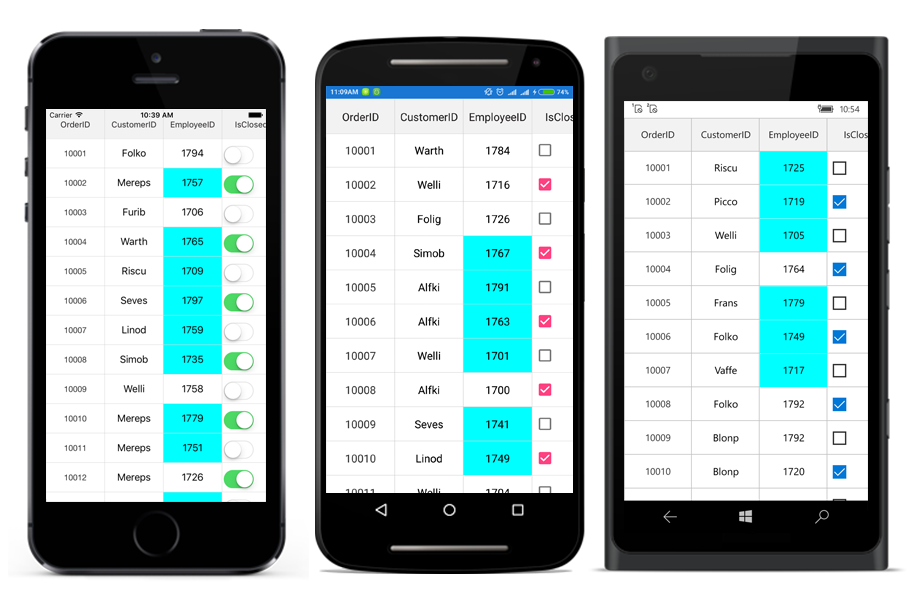
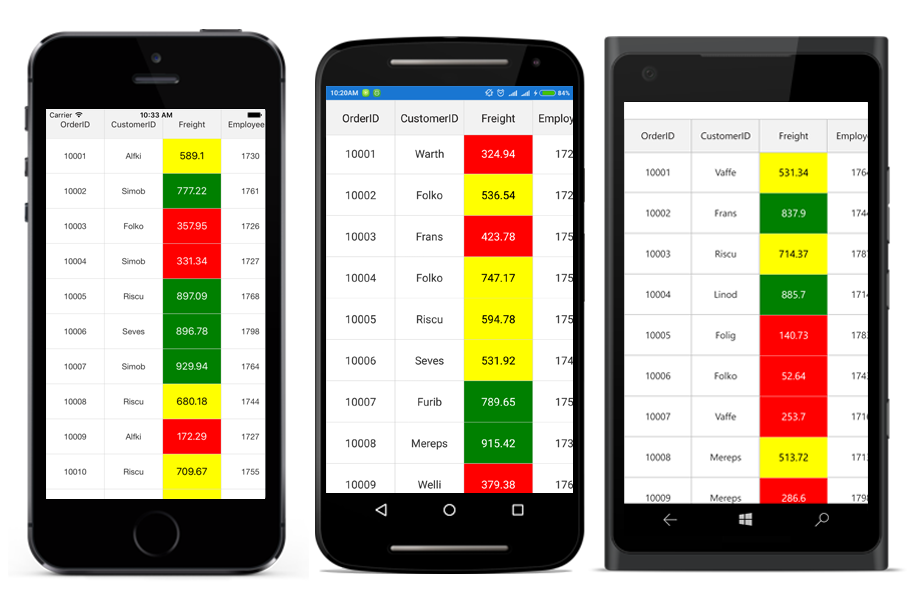
Xamarin-5938  SfDataGrid UG improvement works - Phase 4 - is Done

diff --git a/Xamarin/SfDataGrid/Column-Types.md b/Xamarin/SfDataGrid/Column-Types.md
@@ -443,7 +443,7 @@ The below table provides the list of properties in GridTemplateColumn.
 <tr>
 <td>CellTemplateSelector</td>
 <td>DataTemplateSelector</td>
-<td>Gets or sets the templateSelector that is used to display the contents of the record cells.</td>
+<td>Gets or sets the template selector that is used to display the contents of the record cells.</td>
 <td>Null</td>
 </tr>
 </table>
@@ -465,45 +465,63 @@ The following code example shows templating of GridTemplateColumn. Underlying re
 
 ## CellTemplateSelector
 
-The following code example shows templating of the GridTemplateColumn by using the `CellTemplateSelector` property.
+The following code example shows templating of the GridTemplateColumn by using the `CellTemplateSelector` property. Underlying record will be the BindingContext for the `CellTemplateSelector`.
 
 {% highlight xaml %}
 <ContentPage.Resources>
     <ResourceDictionary>
-        <DataTemplate x:key = "experienced">
-            <Label Text = "{ Binding EmployeeID }" 
-                   TextColor = "Black"
-                   VerticalTextAlignment = "Center" 
-                   HorizontalTextAlignment = "Center" />
+        <DataTemplate x:Key="low" >
+            <Label Text="{Binding Freight}"
+                   TextColor="White" 
+                   BackgroundColor="Red" 
+                   HorizontalTextAlignment="Center" 
+                   VerticalTextAlignment="Center" />
         </DataTemplate>
-        <DataTemplate x:key = "fresher">
-            <Label Text = "{ Binding EmployeeID }" 
-                   TextColor = "Black"
-                   BackgroundColor = "Aqua" 
-                   VerticalTextAlignment = "Center" 
-                   HorizontalTextAlignment = "Center" />
+        <DataTemplate x:Key="average" >
+            <Label Text="{Binding Freight}"
+                   TextColor="Black" 
+                   BackgroundColor="Yellow" 
+                   HorizontalTextAlignment="Center" 
+                   VerticalTextAlignment="Center" />
+        </DataTemplate>
+        <DataTemplate x:Key="high" >
+            <Label Text="{Binding Freight}" 
+                   TextColor="White" 
+                   BackgroundColor="Green" 
+                   HorizontalTextAlignment="Center" 
+                   VerticalTextAlignment="Center" />
         </DataTemplate>
     </ResourceDictionary>
 </ContentPage.Resources>
 
-<syncfusion:GridTemplateColumn MappingName="EmployeeID">
-    <syncfusion:GridTemplateColumn.CellTemplateSelector>
-        <local:EmployeeIDSelector Experienced = "{ StaticResource experienced }"
-                                  Fresher = "{ StaticResource fresher }" />
-    </syncfusion:GridTemplateColumn.CellTemplateSelector>
-</syncfusion:GridTemplateColumn> 
+<sfgrid:GridTemplateColumn MappingName="Freight" >
+    <sfgrid:GridTemplateColumn.CellTemplateSelector>
+        <local:FreightTemplateSelector High="{StaticResource high}"
+                                       Average="{StaticResource average}"
+                                       Low="{StaticResource low}"/>
+    </sfgrid:GridTemplateColumn.CellTemplateSelector>
+</sfgrid:GridTemplateColumn>
 {% endhighlight %}
 
 {% highlight c# %}
-// EmployeeIDSelector implementation
-public class EmployeeIDSelector : DataTemplateSelector
+// FreightTemplateSelector implementation
+public class FreightTemplateSelector : DataTemplateSelector
 {
-    public DataTemplate Experienced { get; set; }
-    public DataTemplate Fresher { get; set; }
+    public DataTemplate Low { get; set; }
+
+    public DataTemplate Average { get; set; }
+
+    public DataTemplate High { get; set; }
 
     protected override DataTemplate OnSelectTemplate(object item, BindableObject container)
     {
-        return ((OrderInfo)item).EmployeeID % 2 == 0 ? Experienced : Fresher;
+        var value = double.Parse((item as OrderInfo).Freight);
+        if (value > 750)
+            return High;
+        else if (value > 500)
+            return Average;
+        else
+            return Low;
     }
 }
 {% endhighlight %}
